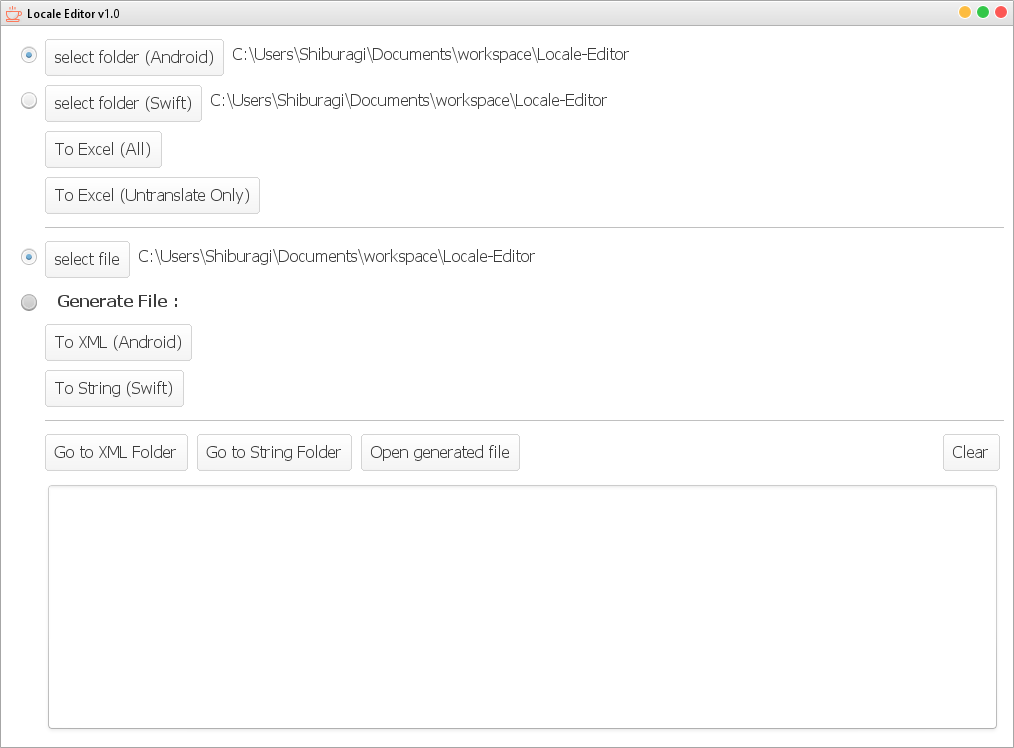
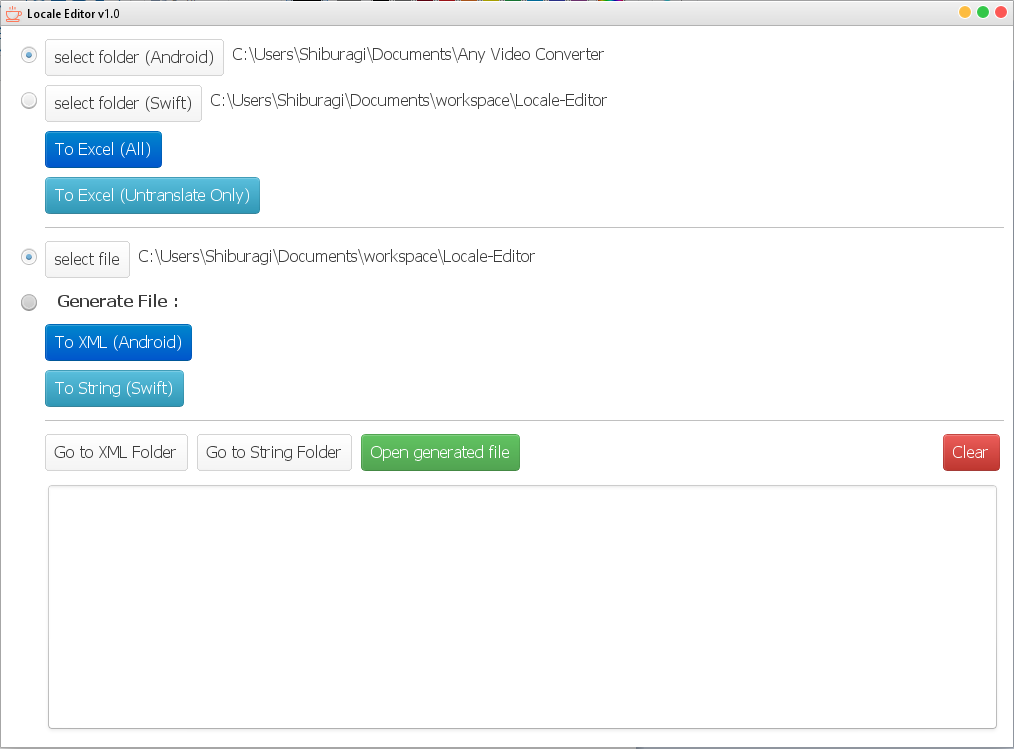
Support multiple string file

diff --git a/src/MainPanel.java b/src/MainPanel.java
@@ -591,8 +591,14 @@ public class MainPanel extends JPanel {
 		if (isAndroid) {
 			files = folder.listFiles(new FilenameFilter() {
 				public boolean accept(File dir, String name) {
-					File stringFile = new File(new File(dir, name), "strings.xml");
-					return name.matches("(values)[\\-a-zA-z]*") && stringFile.exists();
+					File file = new File(dir, name);
+					return file.isDirectory() && name.toLowerCase().startsWith("values")
+							&& file.listFiles(new FilenameFilter() {
+								public boolean accept(File dir, String name) {
+									System.out.println(name);
+									return name.toLowerCase().endsWith(".strings");
+								}
+							}).length > 0;
 				}
 			});
 
@@ -604,7 +610,7 @@ public class MainPanel extends JPanel {
 							&& file.listFiles(new FilenameFilter() {
 								public boolean accept(File dir, String name) {
 									System.out.println(name);
-									return name.toLowerCase().endsWith(".strings");
+									return name.startsWith("string")&&name.endsWith(".xml");
 								}
 							}).length > 0;
 				}
@@ -639,33 +645,37 @@ public class MainPanel extends JPanel {
 		return map;
 	}
 
-	protected void extract(File file, TreeMap<String, String[]> map, int length, int index) {
+	protected void extract(File folder, TreeMap<String, String[]> map, int length, int index) {
 		// TODO Auto-generated method stub
-		File[] files = file.listFiles(new FilenameFilter() {
+		File[] files = folder.listFiles(new FilenameFilter() {
 			public boolean accept(File dir, String name) {
-				return name.equals("strings.xml");
+				name = name.toLowerCase();
+				return name.startsWith("string")&&name.endsWith(".xml");
 			}
 		});
 
 		if (files.length > 0) {
 			System.out.println(files[0].getParentFile().getName());
-			List<Pair> list = IO.getInstance().readXML(files[0]);
-			for (Pair pair : list) {
-				String[] s;
-				if (map.containsKey(pair.first)) {
-					s = map.get(pair.first);
-				} else {
-					s = new String[length];
-					map.put(pair.first, s);
+			for (File file : files) {
+
+				List<Pair> list = IO.getInstance().readXML(file);
+				for (Pair pair : list) {
+					String[] s;
+					if (map.containsKey(pair.first)) {
+						s = map.get(pair.first);
+					} else {
+						s = new String[length];
+						map.put(pair.first, s);
+					}
+					s[index] = pair.second;
 				}
-				s[index] = pair.second;
 			}
 		}
 	}
 
-	protected void extractString(File file, TreeMap<String, String[]> map, int length, int index) {
+	protected void extractString(File folder, TreeMap<String, String[]> map, int length, int index) {
 		// TODO Auto-generated method stub
-		File[] files = file.listFiles(new FilenameFilter() {
+		File[] files = folder.listFiles(new FilenameFilter() {
 			public boolean accept(File dir, String name) {
 				System.out.println(name);
 				return name.toLowerCase().endsWith(".strings");
@@ -673,16 +683,18 @@ public class MainPanel extends JPanel {
 		});
 
 		if (files != null && files.length > 0) {
-			List<Pair> list = IO.getInstance().readString(files[0]);
-			for (Pair pair : list) {
-				String[] s;
-				if (map.containsKey(pair.first)) {
-					s = map.get(pair.first);
-				} else {
-					s = new String[length];
-					map.put(pair.first, s);
+			for (File file : files) {
+				List<Pair> list = IO.getInstance().readString(file);
+				for (Pair pair : list) {
+					String[] s;
+					if (map.containsKey(pair.first)) {
+						s = map.get(pair.first);
+					} else {
+						s = new String[length];
+						map.put(pair.first, s);
+					}
+					s[index] = pair.second;
 				}
-				s[index] = pair.second;
 			}
 		}
 	}
